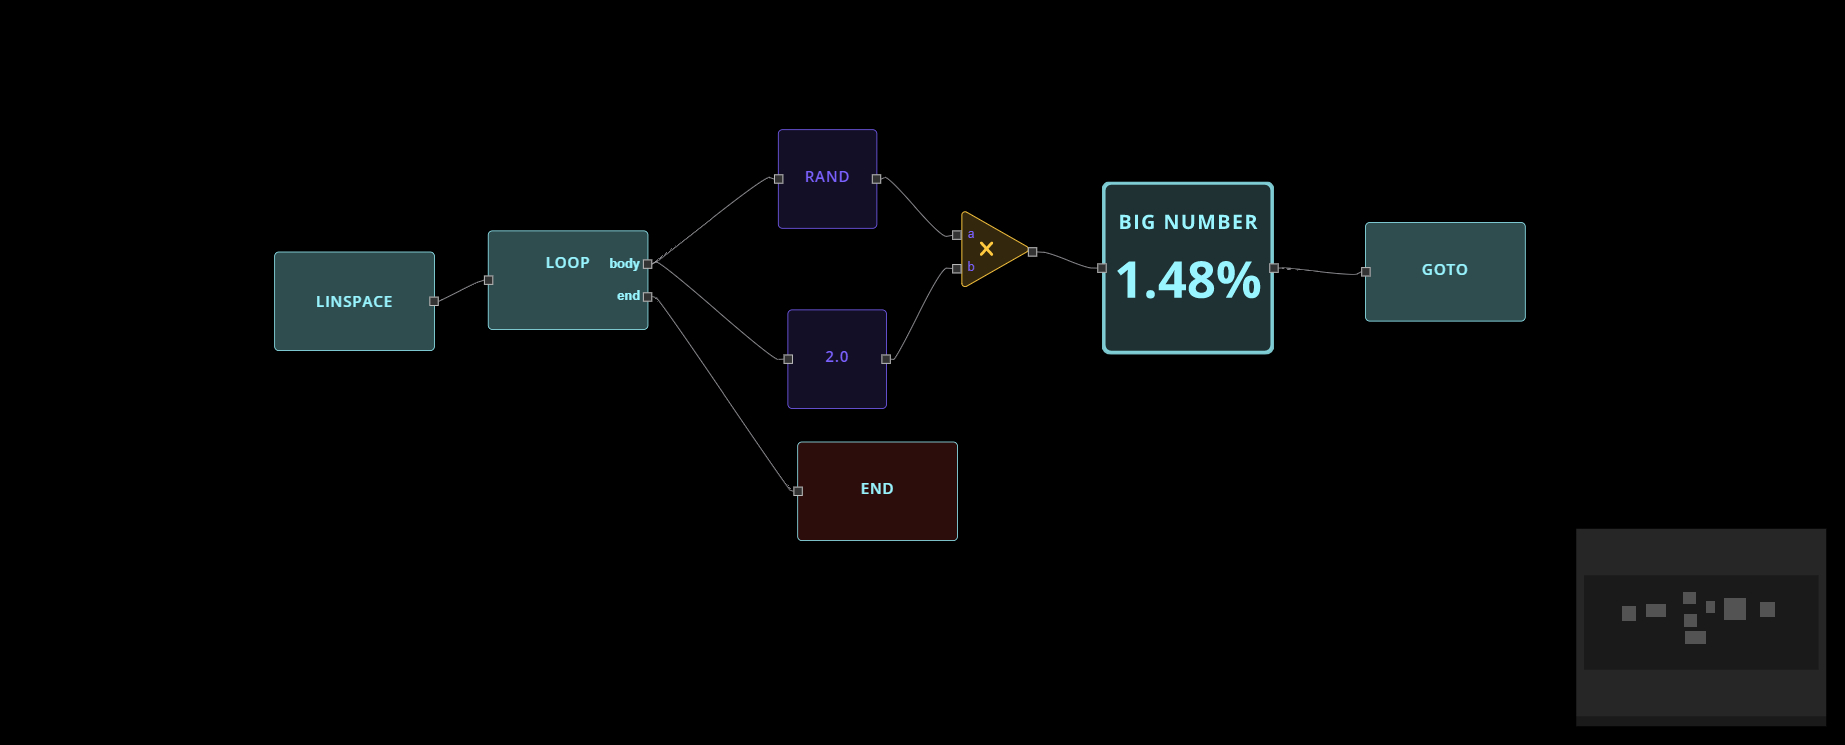
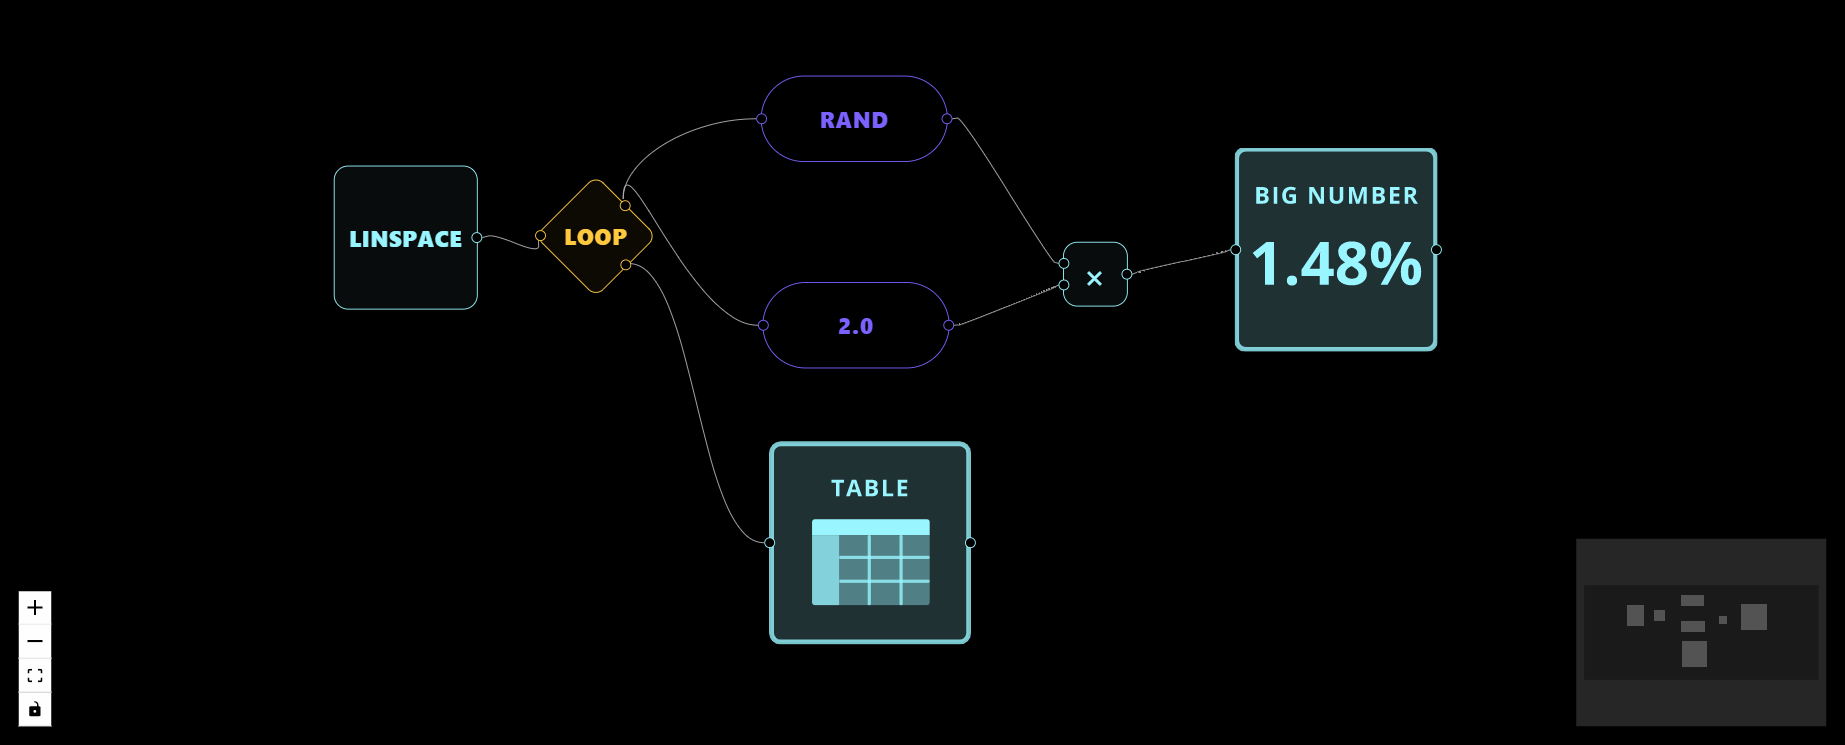
[WIP] Loop example without GOTO and End node - nodes PR:189 (#192)

diff --git a/docs/nodes/LOGIC_GATES/LOOPS/LOOP/examples/EX1/example.md b/docs/nodes/LOGIC_GATES/LOOPS/LOOP/examples/EX1/example.md
@@ -5,9 +5,7 @@ First, you'll need to place these three nodes:
 
 - The [`LOOP`](https://github.com/flojoy-io/nodes/blob/main/LOGIC_GATES/LOOPS/LOOP/LOOP.py) node which will define the number of loops.
 
-- The [`GOTO`](https://github.com/flojoy-io/nodes/blob/main/LOGIC_GATES/LOOPS/GOTO/GOTO.py) node will define where the loop ends. This node takes a parameter called 'referred_node' in which you can choose where the loop starts again (Generally, it's the [`LOOP`](https://github.com/flojoy-io/nodes/blob/main/LOGIC_GATES/LOOPS/LOOP/LOOP.py) node).
-
-- The [`END`](https://github.com/flojoy-io/nodes/blob/main/LOGIC_GATES/TERMINATORS/END/END.py) node which is connected to the "end" output of the [`LOOP`](https://github.com/flojoy-io/nodes/blob/main/LOGIC_GATES/LOOPS/LOOP/LOOP.py) node, which serve, to terminate the program.
+- The [`TABLE`](https://github.com/flojoy-io/nodes/blob/main/VISUALIZERS/PLOTLY/TABLE/TABLE.py) node which is connected with end output of the loop node.
 
 After that, we can place nodes to generate and visualize data within the loop :
 
